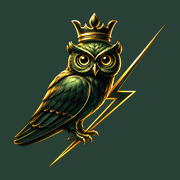
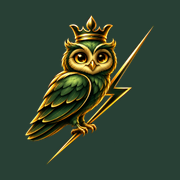
Byt till ny, gladare uggla i logga och ikoner
Kunden tyckte att den gamla ugglan såg arg ut. Ny logga (Logga23) är
frilagd från svart bakgrund till Logga23-transparent.png och används i
sidhuvud och sidfot. Favicon och apple-touch-icon är genererade från
samma bild. Den gamla Logga22-bright.png tas bort.

Changed region(s): [[0.0556, 0.0556, 0.8889, 0.9167], [0.8889, 0.1389, 0.9167, 0.1667], [0.8333, 0.1389, 0.8611, 0.1667]]

diff --git a/src/components/layout/Footer.tsx b/src/components/layout/Footer.tsx
@@ -16,7 +16,7 @@ export function Footer() {
           <div className="md:col-span-1">
             <div className="flex items-center gap-3 mb-4">
               <div className="relative h-[84px] w-[100px] flex-shrink-0">
-                <Image src="/images/Logga22-bright.png" alt="" fill sizes="100px" className="object-contain" />
+                <Image src="/images/Logga23-transparent.png" alt="" fill sizes="100px" className="object-contain" />
               </div>
               <span className="font-display font-extrabold text-cream text-[15px] leading-tight">
                 {BUSINESS.name}

diff --git a/src/components/layout/Header.tsx b/src/components/layout/Header.tsx
@@ -32,7 +32,7 @@ export function Header() {
         <Link href="/" className="group flex items-center gap-3">
           <div className="relative h-[76px] w-[92px] flex-shrink-0">
             <Image
-              src="/images/Logga22-bright.png"
+              src="/images/Logga23-transparent.png"
               alt="Wildkull Payroll AB logotyp"
               fill
               sizes="92px"
